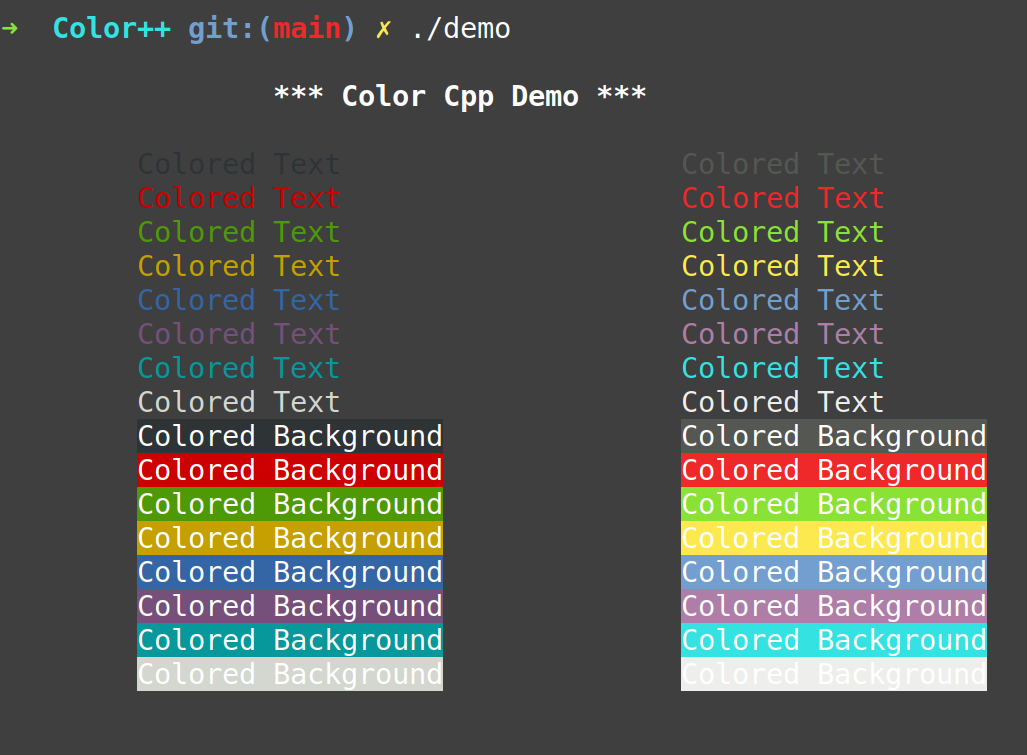
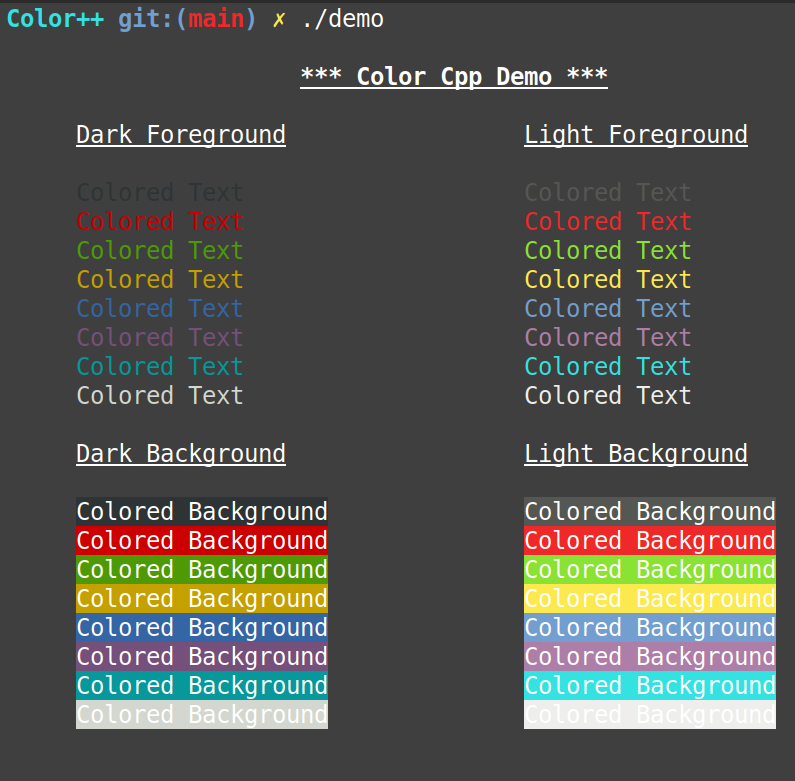
abiity to pass two arguments

diff --git a/include/color.h b/include/color.h
@@ -9,15 +9,6 @@ namespace color {
 
     namespace Foreground {
 
-        // Common colors
-        #define RED            
-        #define GREEN
-        #define YELLOW
-        #define BLUE
-        #define MAGENTA
-        #define CYAN
-        #define GRAY
-
         // Dark colors
         const std::string BLACK             = "\x1B[30m";
         const std::string DARK_RED          = "\x1B[31m";
@@ -40,16 +31,16 @@ namespace color {
 
     }  // namespace Foreground
 
-    namespace Background {
+    // Common colors
+    const std::string& RED                  = Foreground::LIGHT_RED;
+    const std::string& GREEN                = Foreground::LIGHT_GREEN;
+    const std::string& YELLOW               = Foreground::LIGHT_YELLOW;
+    const std::string& BLUE                 = Foreground::LIGHT_BLUE;
+    const std::string& MAGENTA              = Foreground::LIGHT_MAGENTA;
+    const std::string& CYAN                 = Foreground::LIGHT_CYAN;
+    const std::string& GRAY                 = Foreground::DARK_WHITE;
 
-        // Common colors
-        #define RED            
-        #define GREEN
-        #define YELLOW
-        #define BLUE
-        #define MAGENTA
-        #define CYAN
-        #define GRAY
+    namespace Background {
 
         // Dark colors
         const std::string BLACK             = "\x1B[40m";
@@ -75,16 +66,17 @@ namespace color {
 
     class Colored {
     public:
-        Colored(const std::string& str, const std::string& color_code) : 
-            m_str(str), m_color_code(color_code) {};
+        Colored(const std::string& str, const std::string& fg_color, const std::string& bg_color="") : 
+            m_str(str), m_fgColor(fg_color), m_bgColor(bg_color) {};
             friend std::ostream& operator<<(std::ostream& os, const Colored& obj);
     private:
         const std::string& m_str;
-        const std::string& m_color_code;
+        const std::string& m_fgColor;
+        const std::string& m_bgColor;
     };
 
     std::ostream& operator<<(std::ostream& os, const Colored& obj) {
-        os << obj.m_color_code << obj.m_str << color::DEFAULT;
+        os << obj.m_fgColor << obj.m_bgColor << obj.m_str << color::DEFAULT;
         return os;
     }
 

diff --git a/demo.cpp b/demo.cpp
@@ -9,7 +9,8 @@ namespace bF = color::Background;
 int main() {
 
     // Heading
-    std::cout << color::Colored("\n\t\t*** Color Cpp Demo ***\t\t\n", color::BOLD) << std::endl;
+    std::string header = "\n\t\t\t*** Color Cpp Demo ***\n";
+    std::cout << color::Colored(header, color::BOLD, color::UNDERLINE) << std::endl;
 
     // Foreground colors
     const std::string foreground_text = "\tColored Text";
@@ -31,11 +32,14 @@ int main() {
         cF::LIGHT_CYAN,
         cF::WHITE
     };
+    std::cout << color::Colored("\tDark Foreground", color::UNDERLINE) << "\t\t" << 
+                 color::Colored("\tLight Foreground", color::UNDERLINE) << "\n" << std::endl;
     size_t fSize = (size_t)foreground_colors.size()/2;
     for (size_t i=0; i < fSize; i++) {
         std::cout << color::Colored(foreground_text, foreground_colors[i]) << "\t\t";
         std::cout << color::Colored(foreground_text, foreground_colors[i+fSize]) << std::endl;
     }
+    std::cout << std::endl;
 
     // Background colors
     const std::string background_text = "\tColored Background";
@@ -57,6 +61,8 @@ int main() {
         bF::LIGHT_CYAN,
         bF::WHITE
     };
+    std::cout << color::Colored("\tDark Background", color::UNDERLINE) << "\t\t" << 
+                 color::Colored("\tLight Background", color::UNDERLINE) << "\n" << std::endl;
     size_t bSize = (size_t)background_colors.size()/2;
     for (size_t i=0; i < bSize; i++) {
         std::cout << color::Colored(background_text, background_colors[i]) << "\t";
